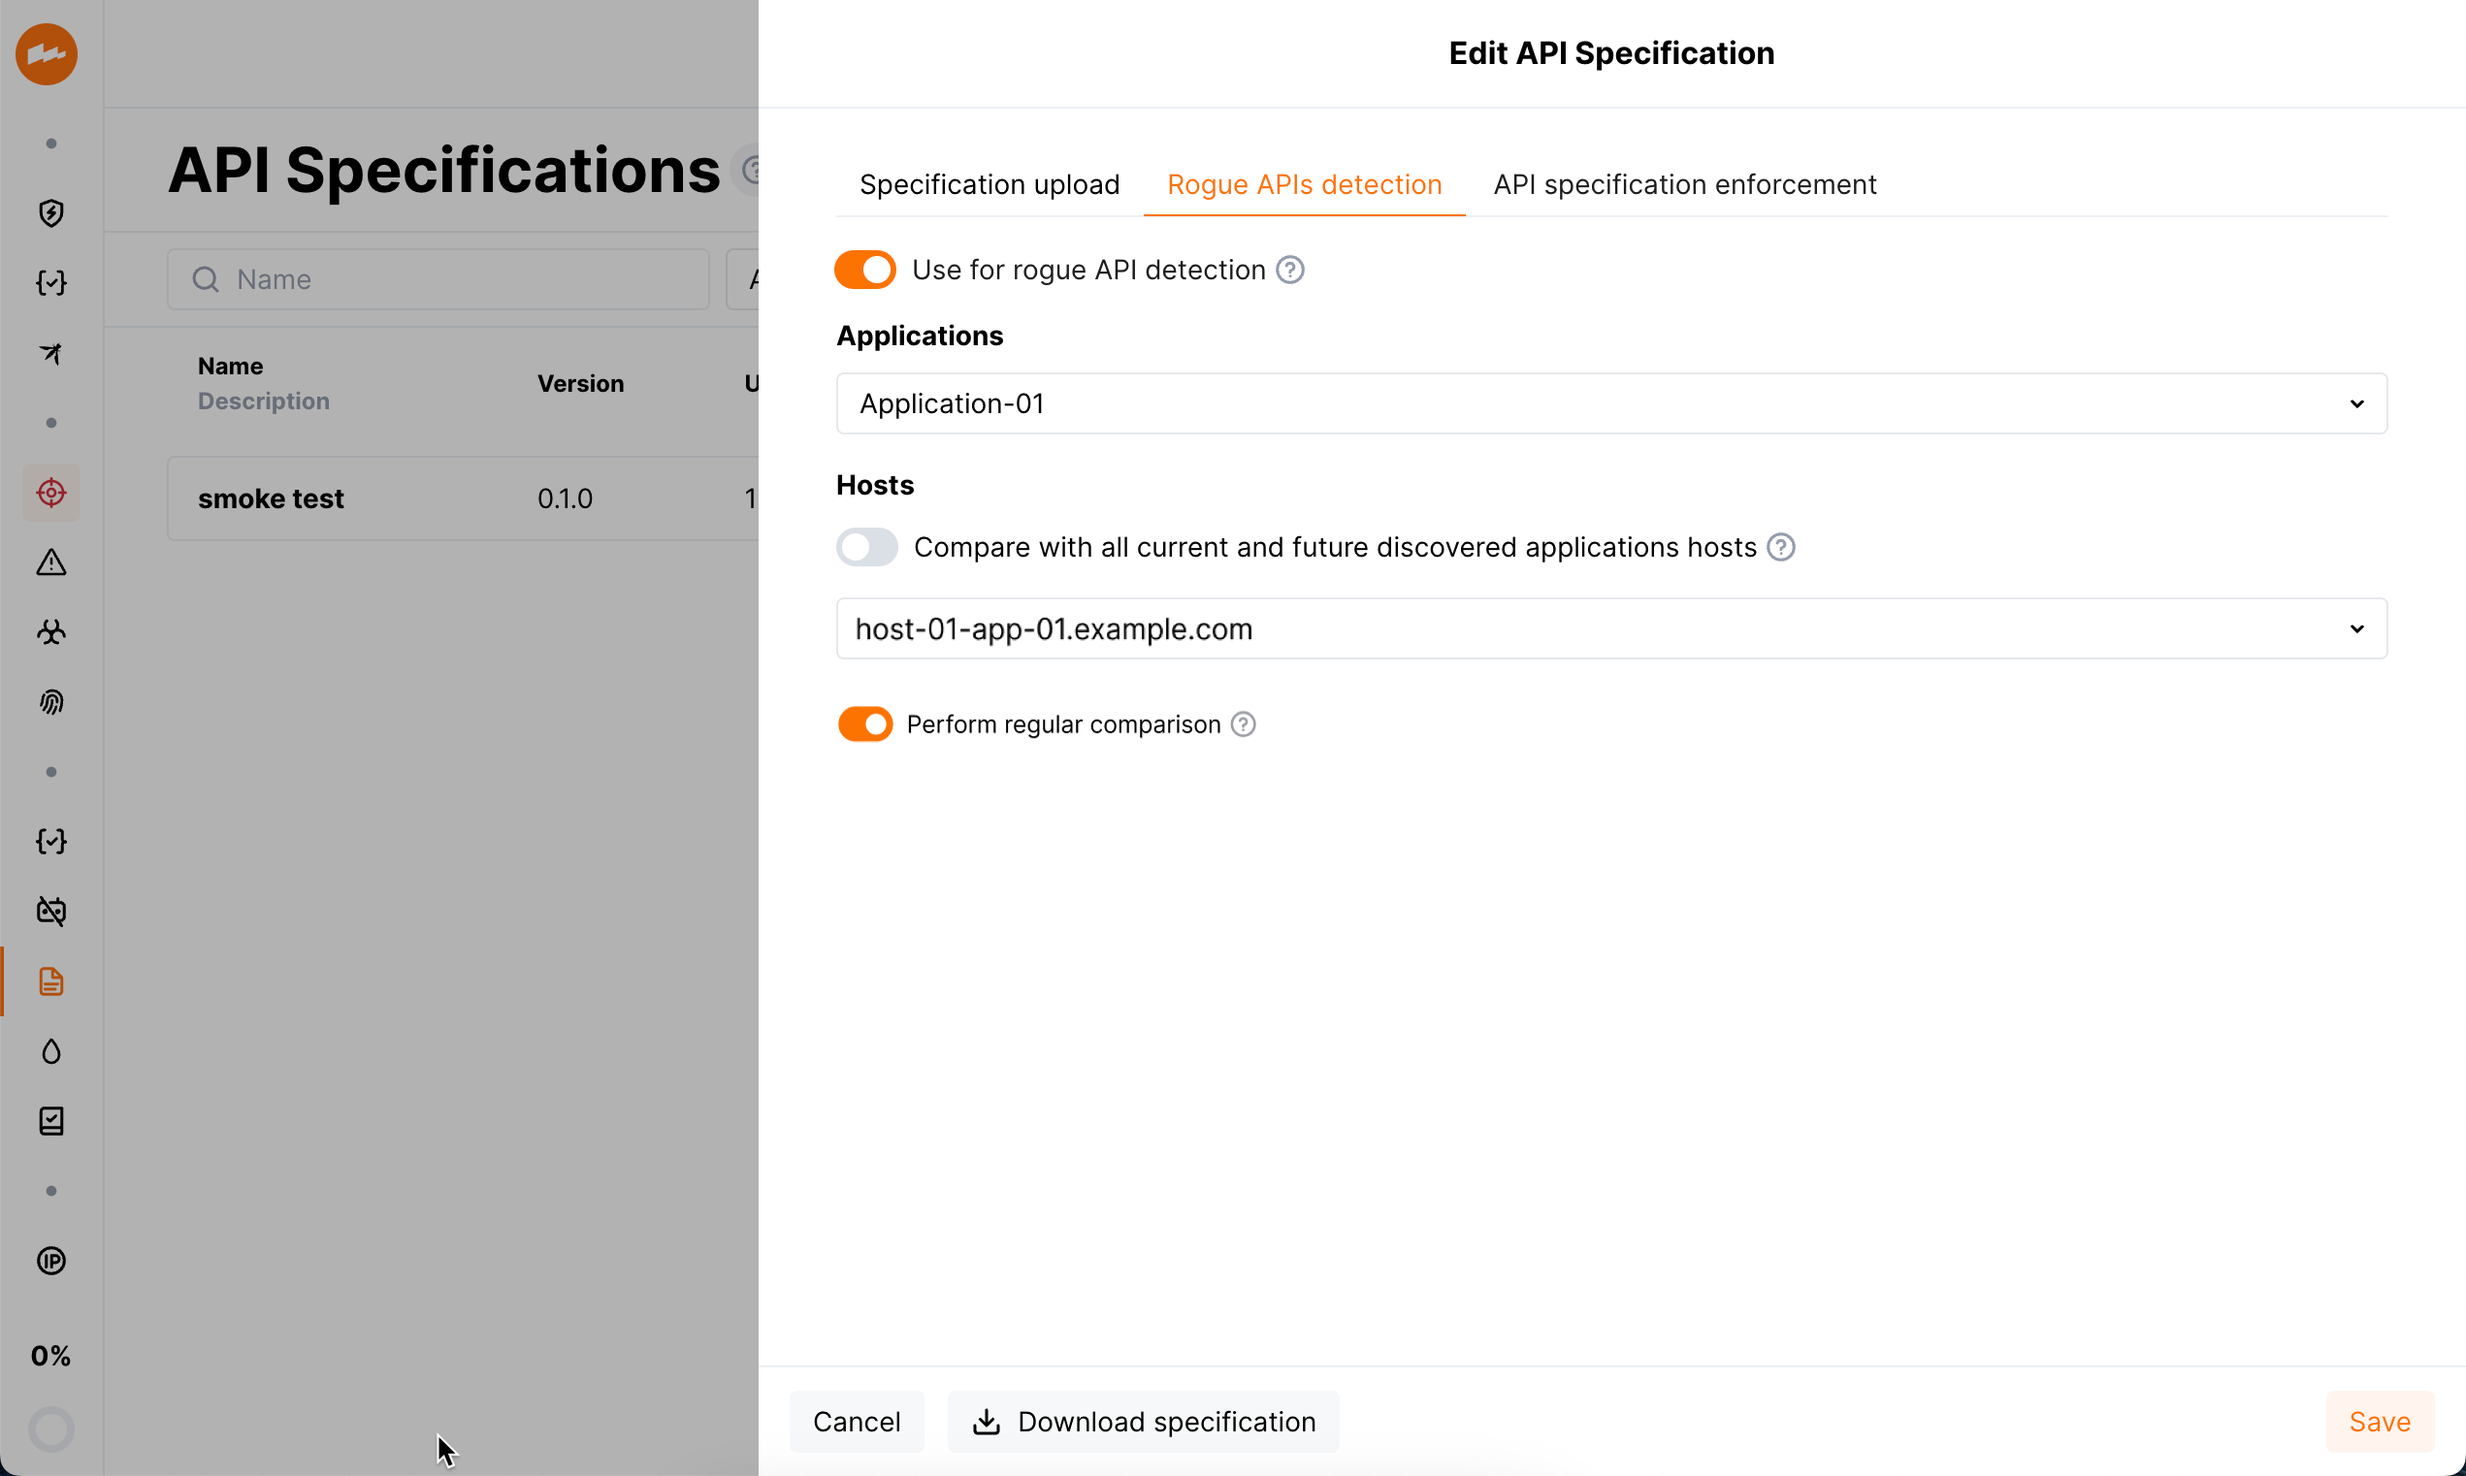
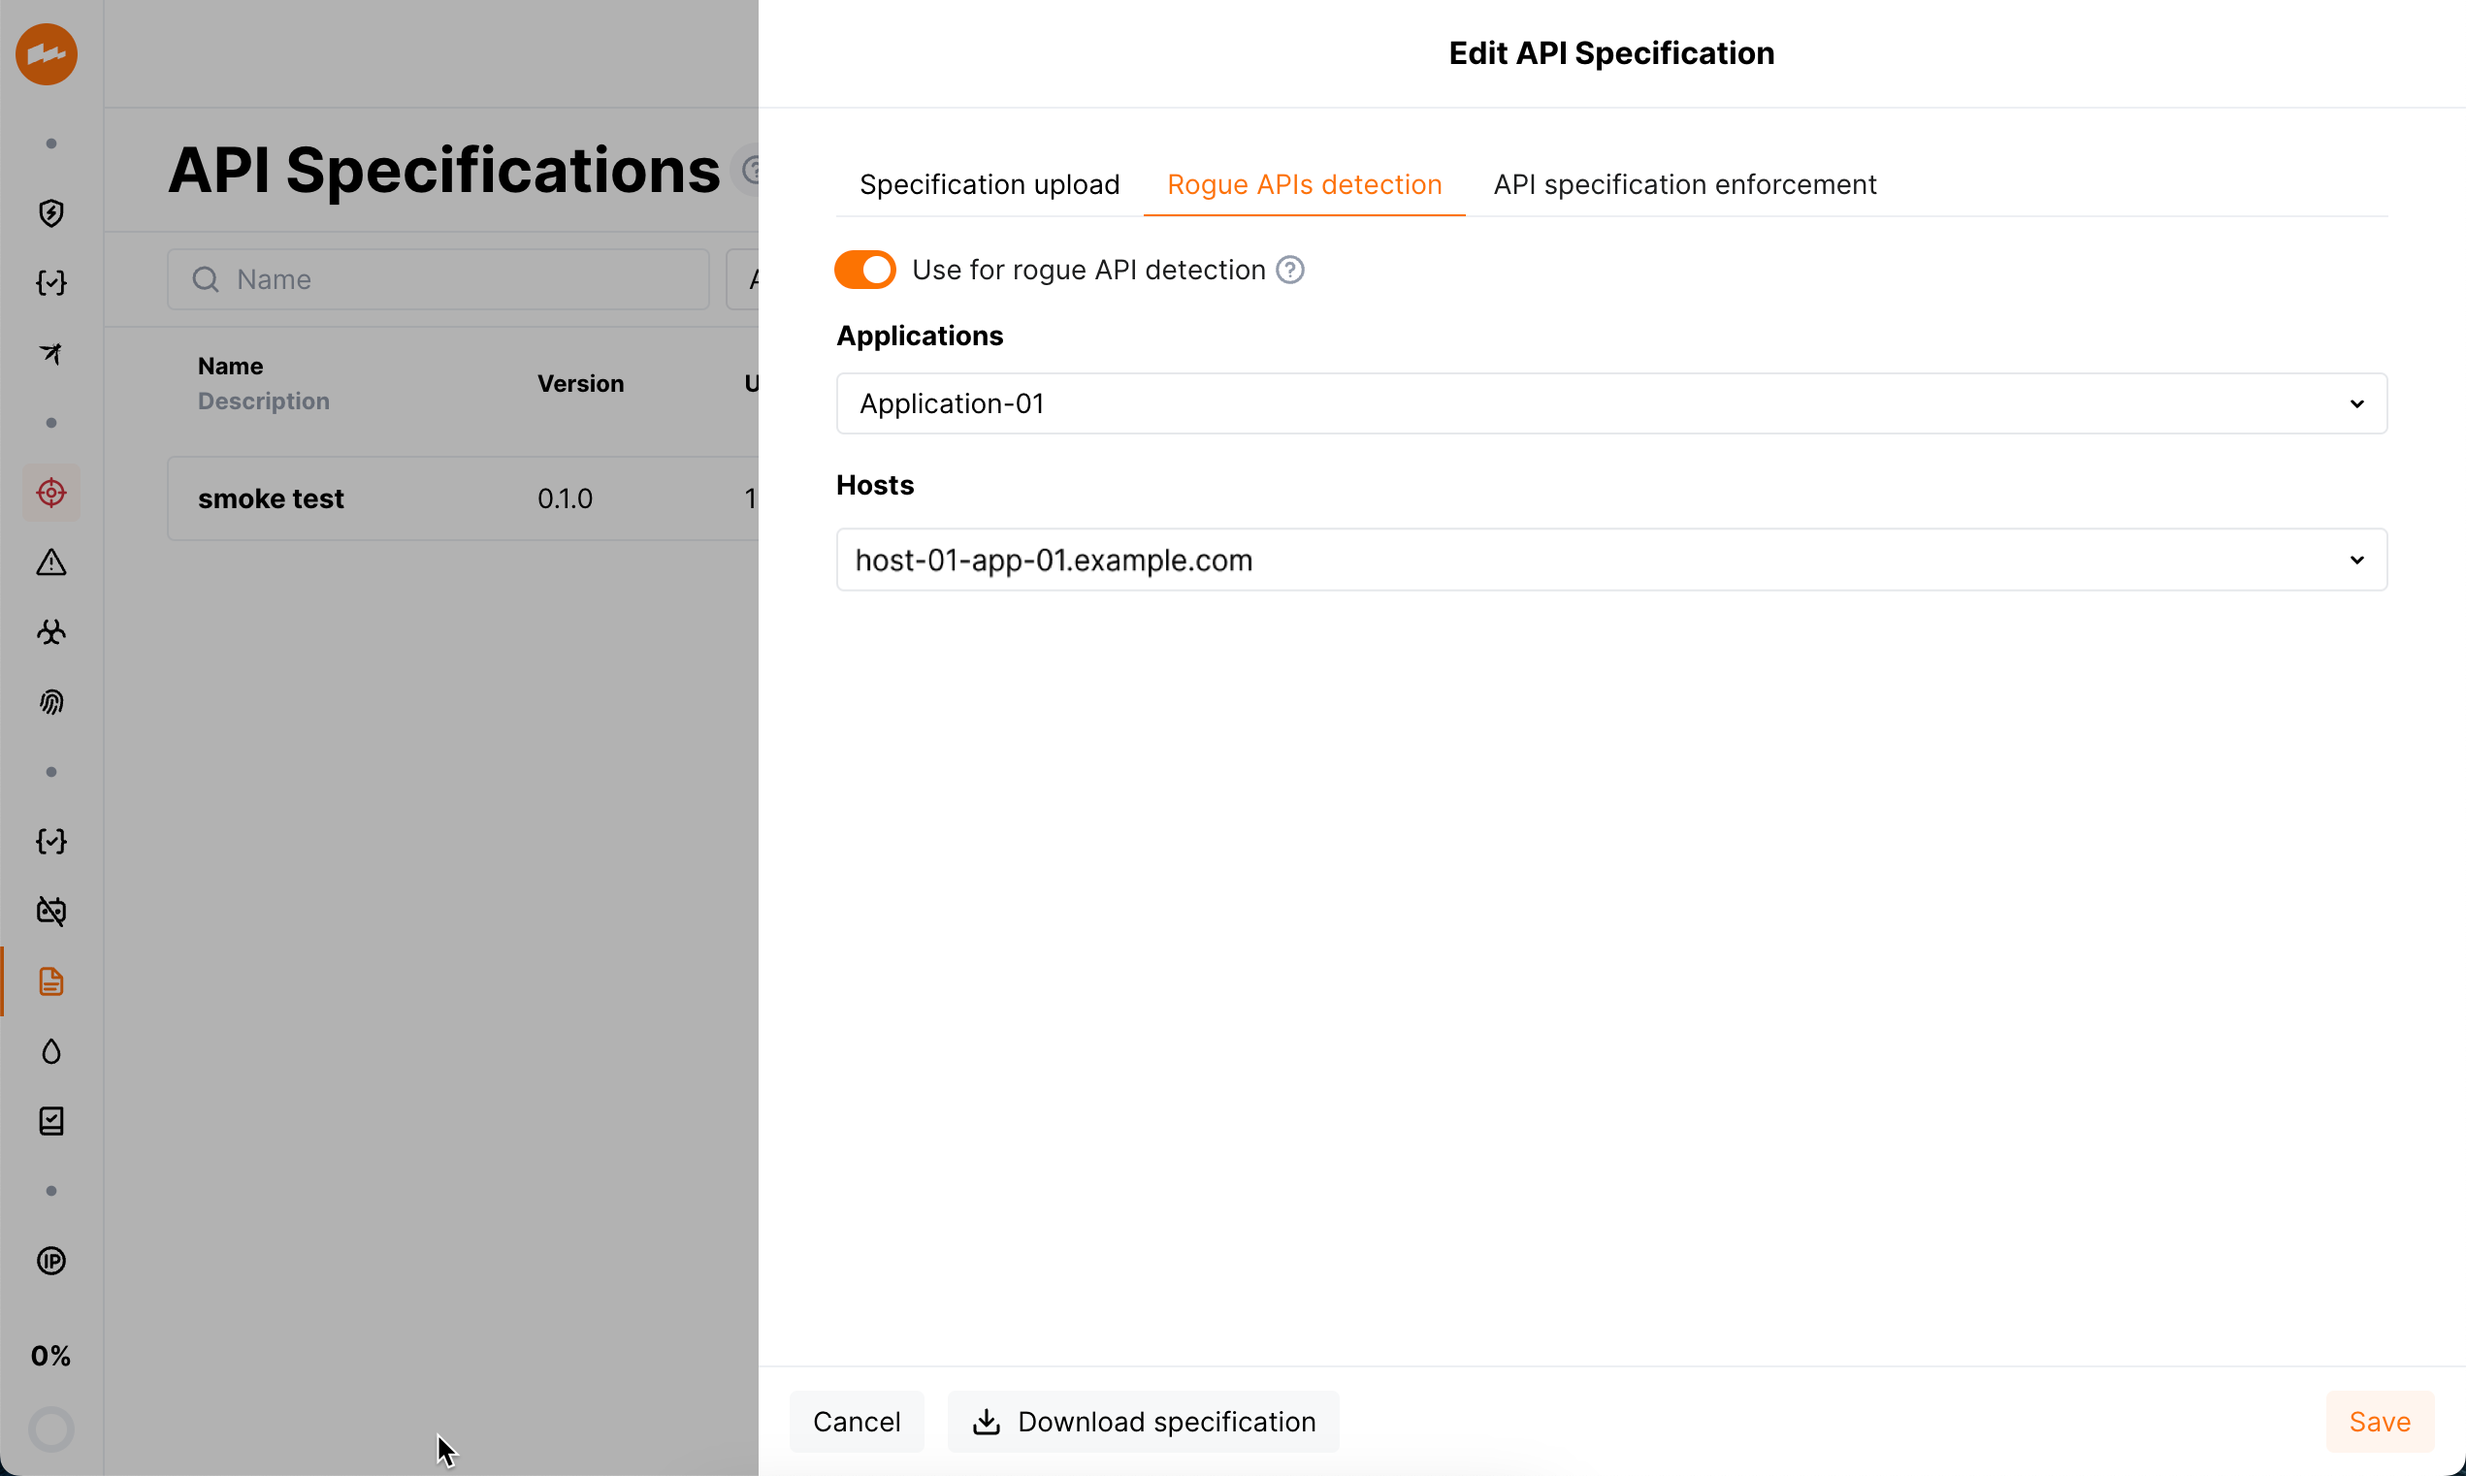
DOCS-2284 New rogue API detection logic

Changed region(s): [[0.3419, 0.3397, 0.7148, 0.4323], [0.3419, 0.4632, 0.4351, 0.525], [0.4662, 0.4632, 0.4972, 0.4941]]

diff --git a/docs/latest/api-discovery/rogue-api.md b/docs/latest/api-discovery/rogue-api.md
@@ -10,19 +10,29 @@ The [API Discovery](overview.md) module automatically identifies shadow, orphan 
 
 ![API Discovery - highlighting and filtering rogue API](../images/about-wallarm-waf/api-discovery/api-discovery-highlight-rogue.png)
 
-## Monitor rogue APIs on hourly basis
+## Setup
 
-You can upload your specification to perform one-time comparison of its content with endpoints revealed by API Discovery up to the moment. But two things can change in time:
+To start finding the rogue APIs, you need to upload specification, select it to be used for rogue API detection and set detection parameters.
 
-* Your actual API inventory (changes will be revealed by API Discovery)
-* Your own specification (new versions can arrive)
+As both specification and API itself changes in time, consider the following:
 
-So to set up a constant monitoring of rogue API, you have an option of comparison **on the hourly basis**. To use the option, specification must be uploaded from URL. The specification itself will be updated before each comparison.
+* Comparison starts after first setup
+* Comparison re-starts if any [changes in API](track-changes.md) are found
+* Comparison re-starts if you save new settings for it
+* Comparison re-starts if you pick new file (by name or full URI)
+* Comparison re-starts if file uploaded from URI has changes and the **Regularly update the specification** (every hour) option is selected
 
-To set up monitoring rogue APIs on hourly basis:
+### Step 1: Upload specification
 
-1. In the **API Specifications** section in the [US](https://us1.my.wallarm.com/api-specifications) or [EU](https://my.wallarm.com/api-specifications) Cloud, click **Upload specification**.
-1. Set uploading from URL parameters and start the process.
+1. In the **API Specifications** section in [US Cloud](https://us1.my.wallarm.com/api-specifications/) or [EU Cloud](https://my.wallarm.com/api-specifications/), click **Upload specification**.
+1. Set specification upload parameters and start uploading.
+
+    ![Upload specification](../images/api-policies-enforcement/specificaton-upload.png)
+
+Note that you will not be able to start configuring rogue API detection, until specification file is successfully uploaded.
+
+### Step 2: Set rogue API detection parameters
+
 1. Click the **Rogue APIs detection** tab.
 
     !!! info "API specification enforcement"
@@ -31,15 +41,11 @@ To set up monitoring rogue APIs on hourly basis:
 1. Select **Use for rogue APIs detection**.
 1. Select **Applications** and **Hosts** - only endpoints related to the selected hosts will be searched for rogue APIs.
 
-    If necessary, select **Compare with all current and future discovered applications hosts** - all hosts (of the selected applications) known now and all hosts that will be discovered in future will be included into comparison.
-
-    You can change comparison settings at any moment later - after this the comparison will be re‑done providing new results.
-
-1. Leave the **Perform regular comparison** option selected (it is by default).
-
     ![API Discovery - API Specifications - uploading API specification to find rogue APIs](../images/about-wallarm-waf/api-discovery/api-discovery-specification-upload.png)
 
-As uploading is finished, the number of rogue (shadow, orphan and zombie) APIs will be displayed for each specification in the list of **API Specifications**.
+## Viewing found rogue APIs
+
+As comparison is finished, the number of rogue (shadow, orphan and zombie) APIs will be displayed for each specification in the list of **API Specifications**.
 
 ![API Specifications section](../images/about-wallarm-waf/api-discovery/api-discovery-specifications.png)
 

diff --git a/docs/latest/api-policy-enforcement/setup.md b/docs/latest/api-policy-enforcement/setup.md
@@ -9,7 +9,7 @@ This article describes how to enable and configure your API protection based on 
 
     ![Upload specification](../images/api-policies-enforcement/specificaton-upload.png)
 
-Note that you will not be able to start configuring API specification enforcement, until its file is successfully uploaded.
+Note that you will not be able to start configuring API specification enforcement, until specification file is successfully uploaded.
 
 ## Step 2: Set actions for violations of policies
 
